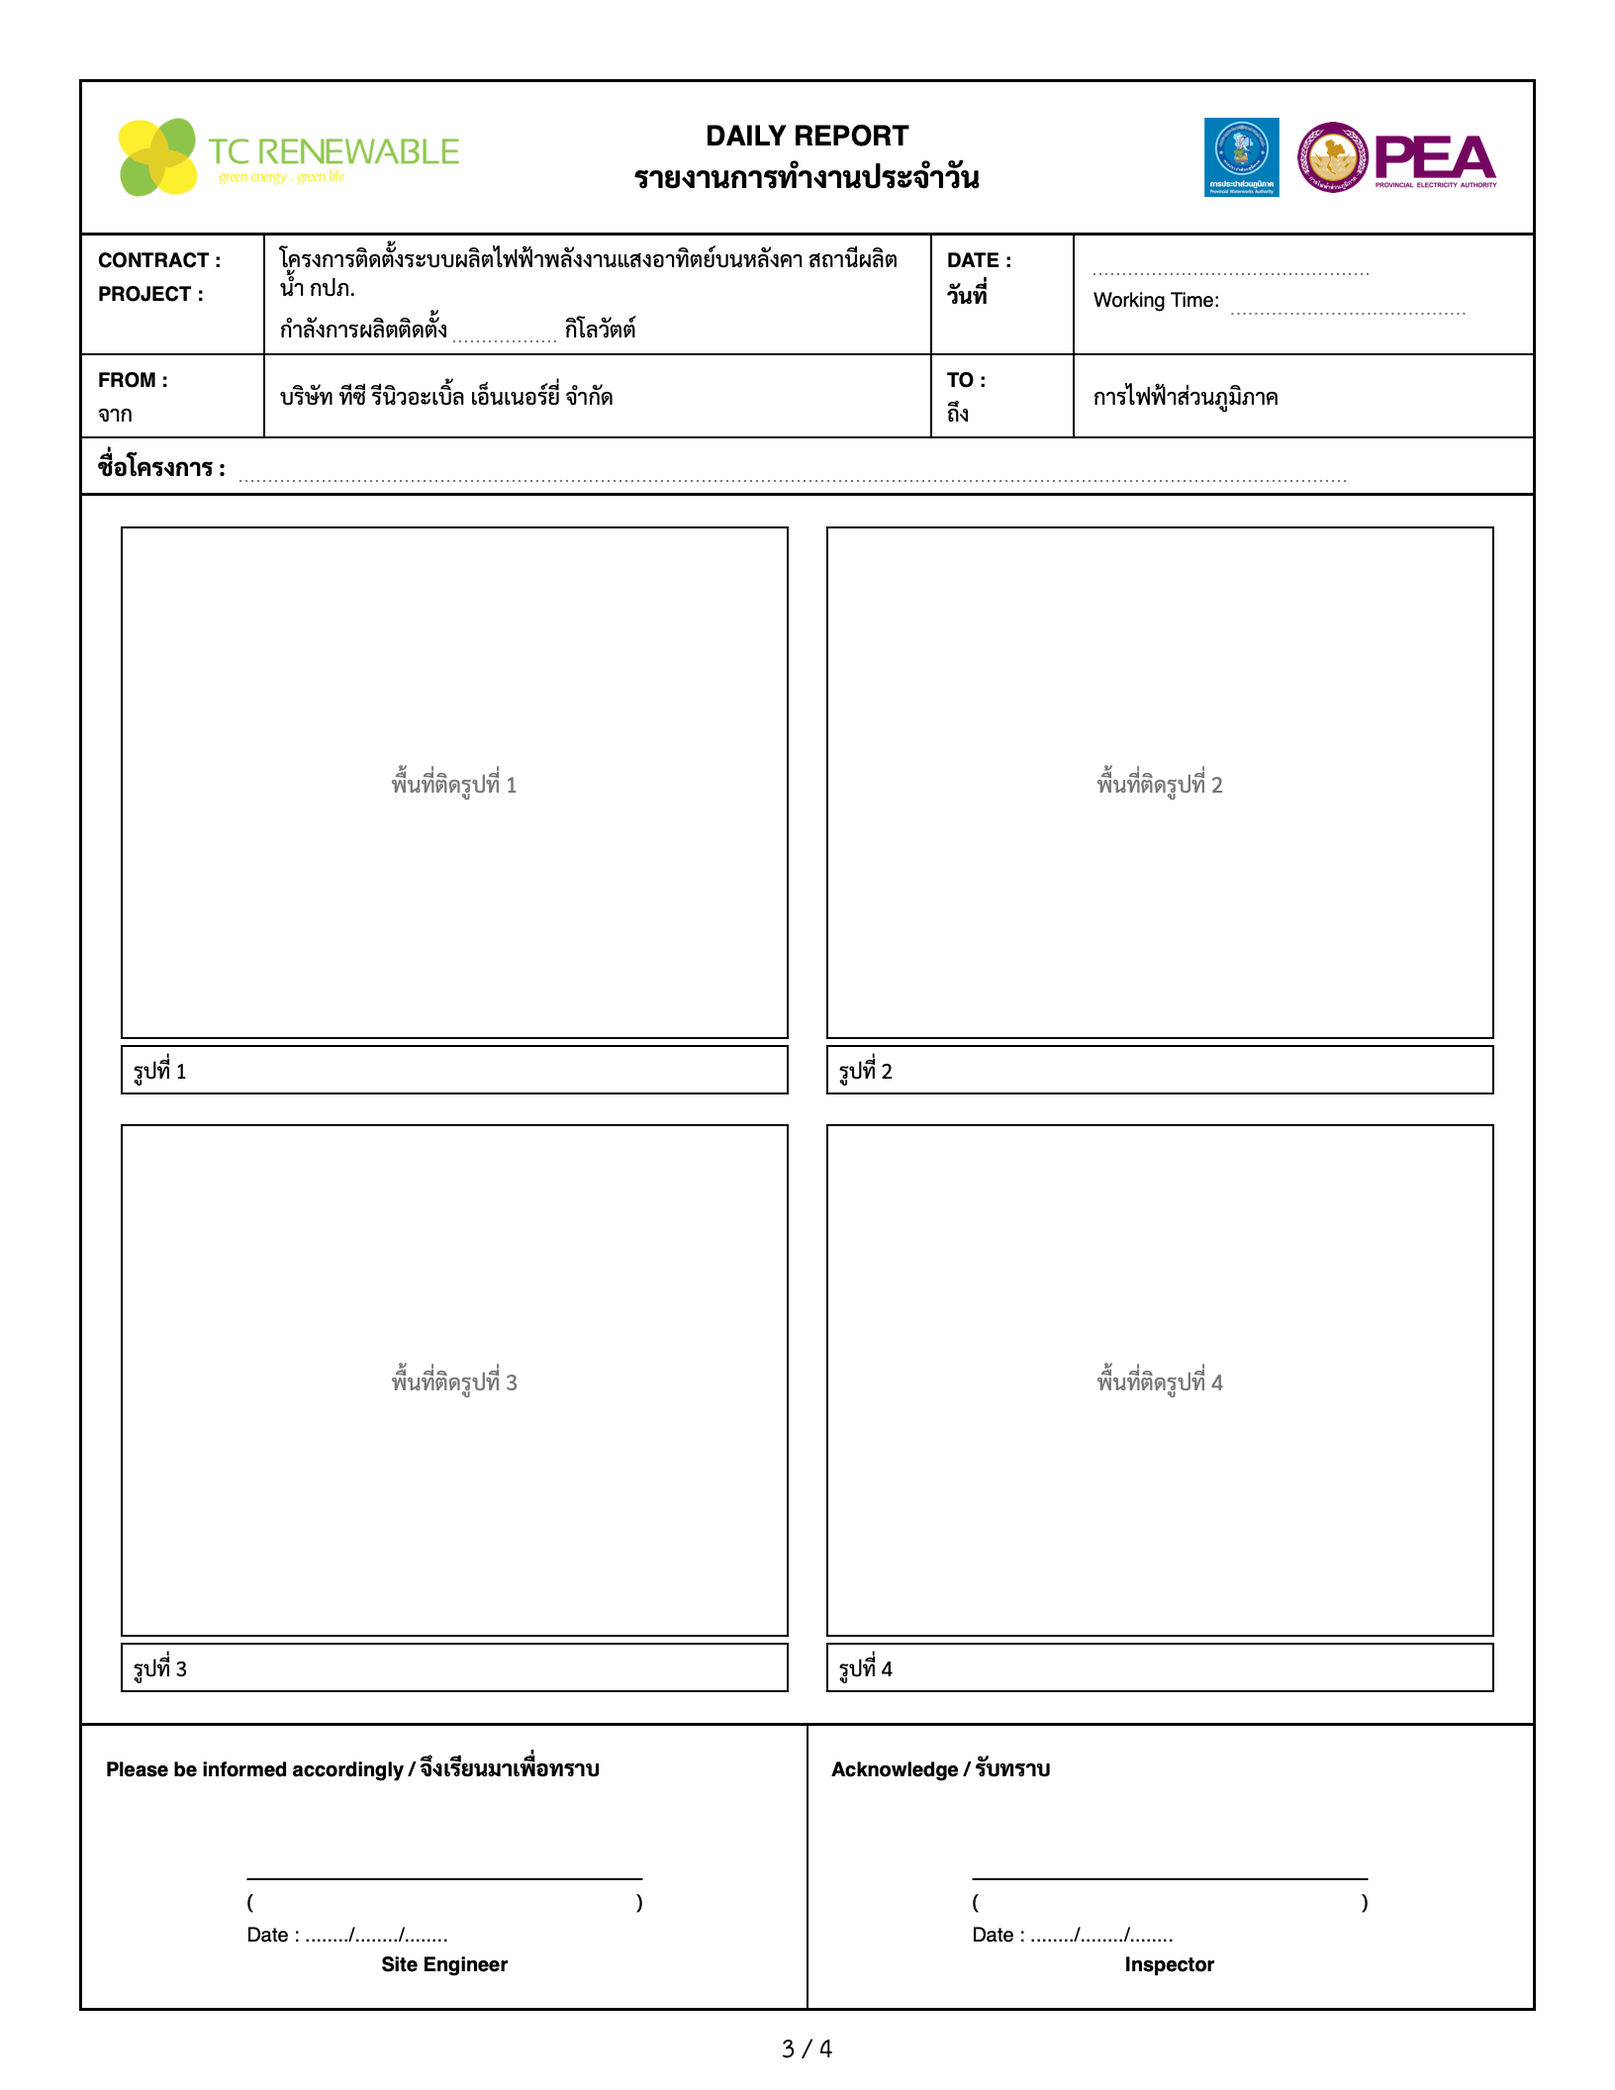
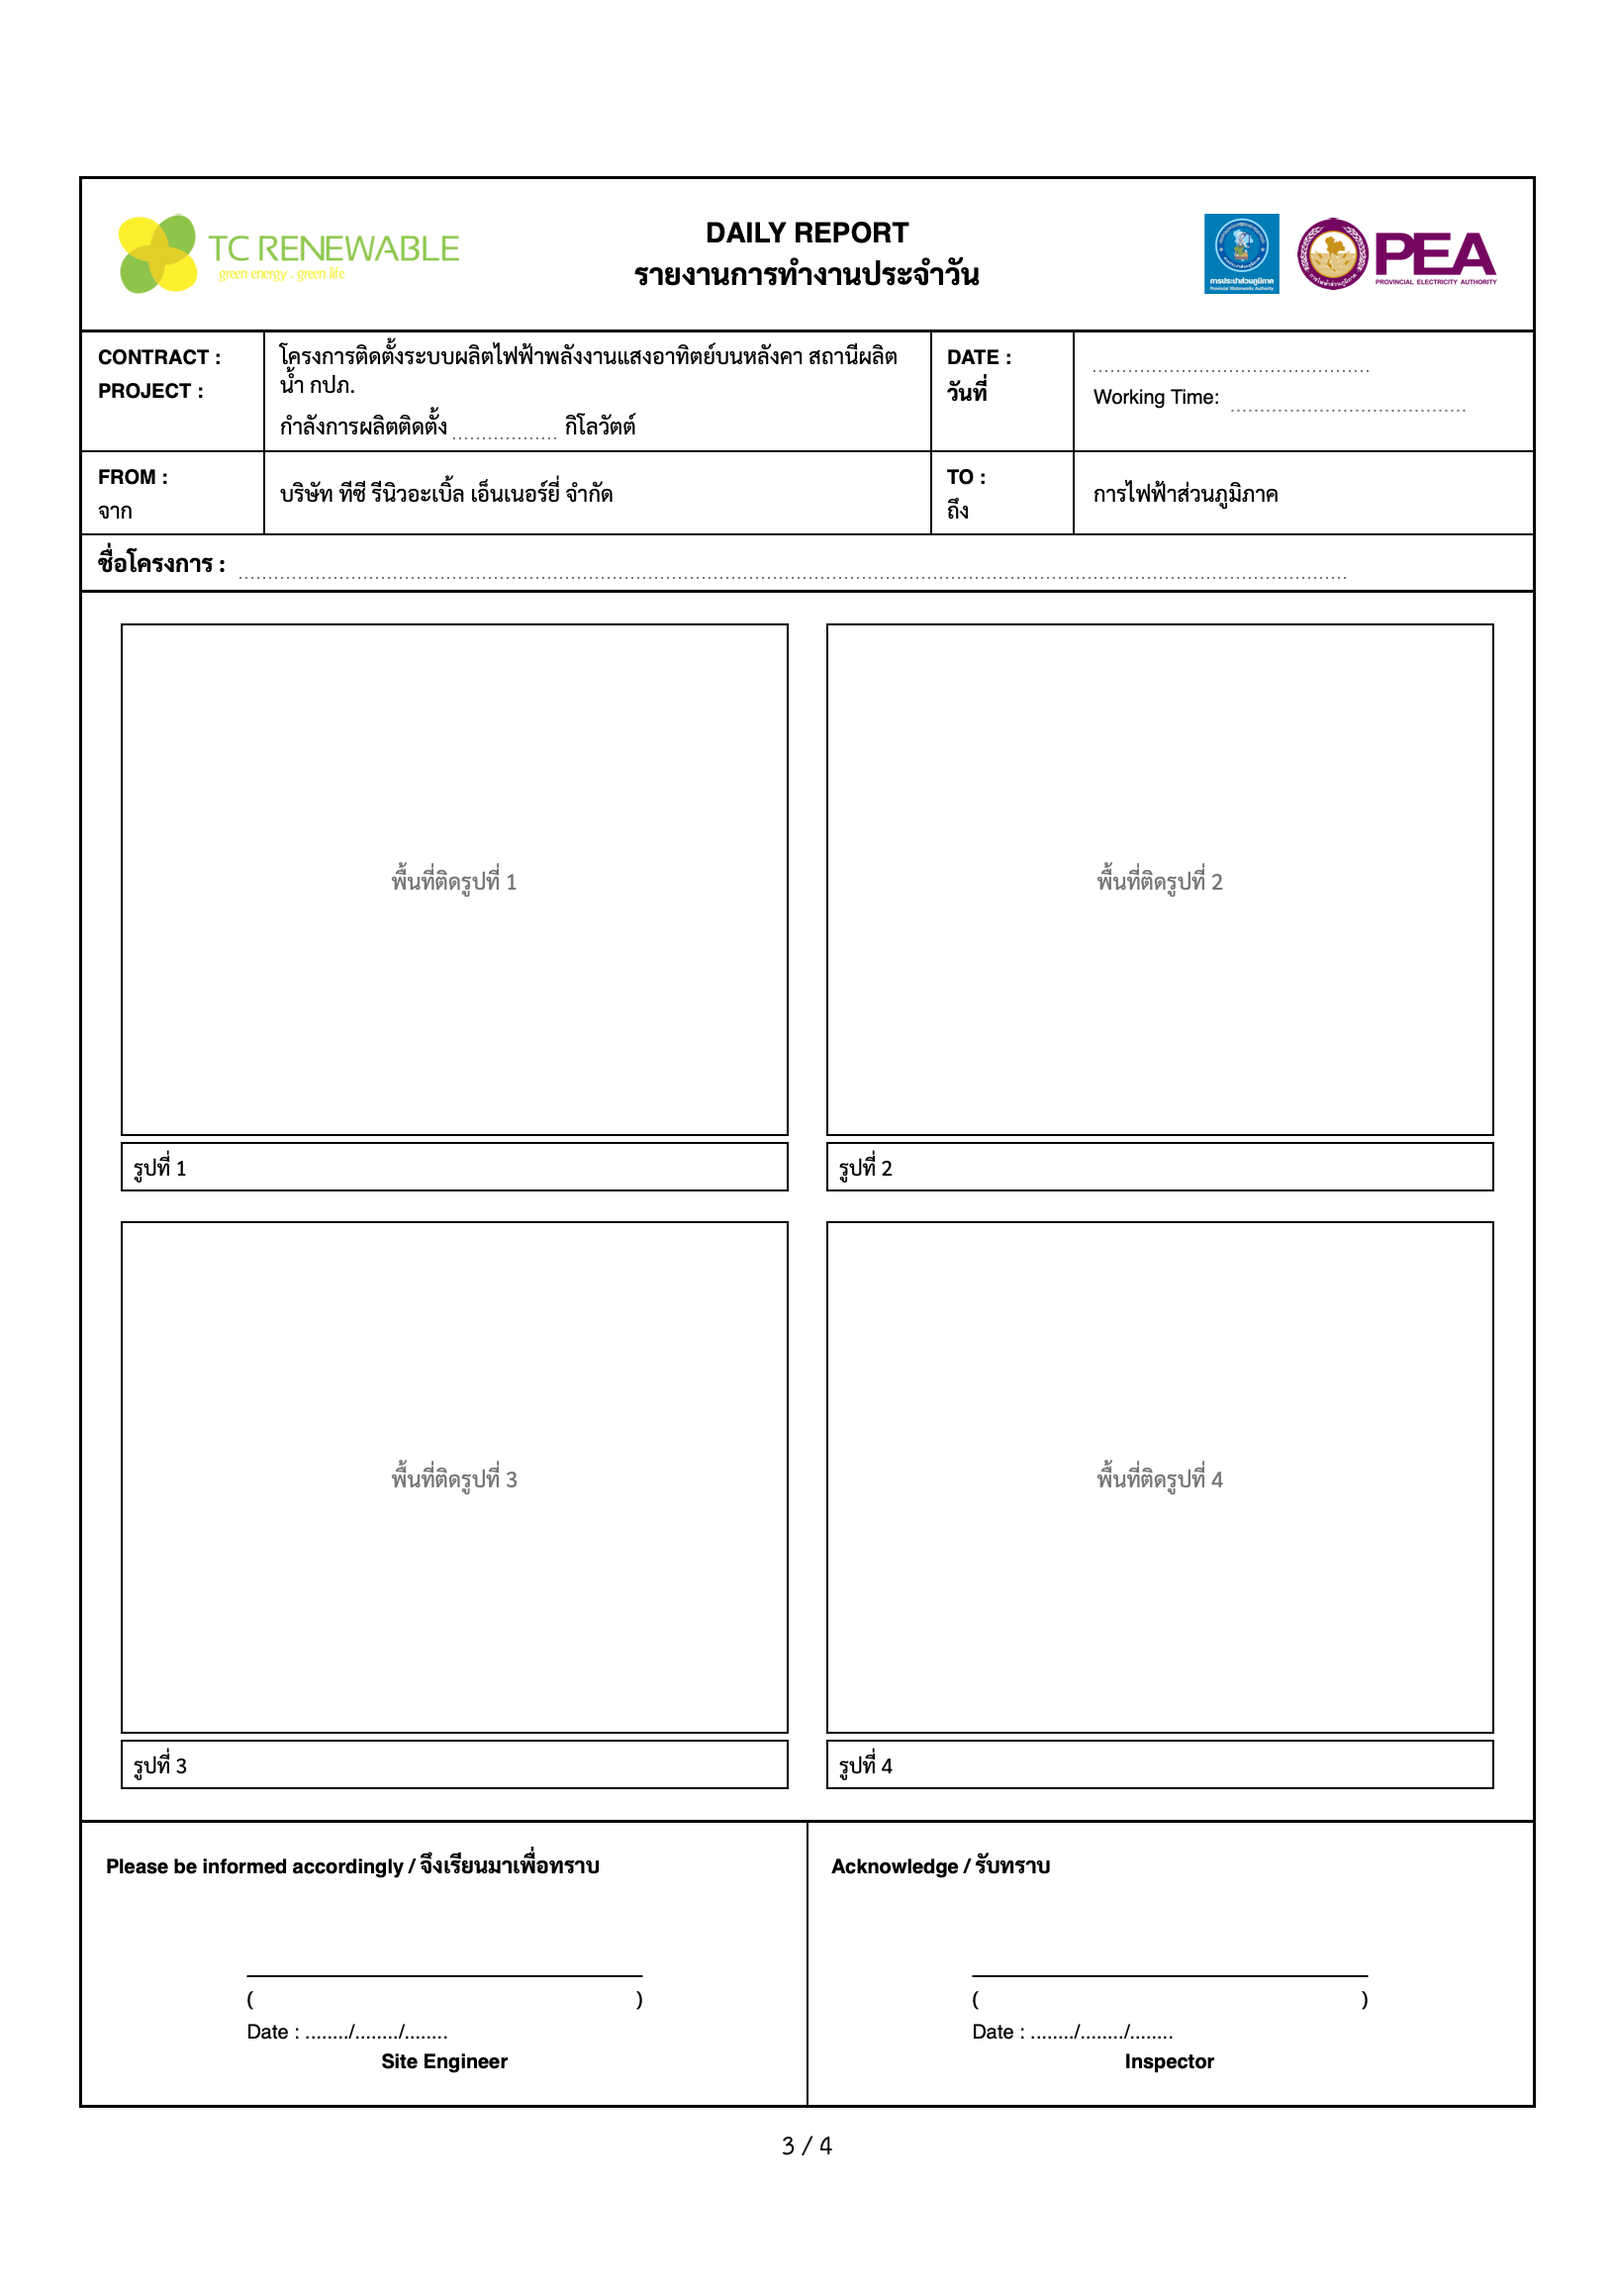
Daily report form on A4
The board is US Letter; the form now prints on A4 like our other reports, the board's page scaled to the width
and centred down the page. Screenshots redone.

Claude-Session: https://claude.ai/code/session_014mHzBfCdeHhoUmB9o3k8RB

diff --git a/TCRoofKit/Sources/PDFReport/RoutineReportPages+DailyForm.swift b/TCRoofKit/Sources/PDFReport/RoutineReportPages+DailyForm.swift
@@ -35,9 +35,9 @@ public enum FormImage: String, CaseIterable, Sendable {
 /// materials; page 2 key plan, progress and problems; page 3 four photos and the signatures; then six photos per page.
 /// Each page is drawn in the board's own pixels (816 × 1056, 96 dpi) and scaled once onto `dailyFormPage`.
 extension RoutineReportPages {
-    /// The form's paper: US Letter, as the board (open question 1 of the task). The board page scales to its width and
-    /// centres vertically, so A4 (595.28 × 841.89) fits too.
-    public static let dailyFormPage = (w: 612.0, h: 792.0)
+    /// The form's paper: A4, as our other reports (the board is US Letter). The board's page scales to the width and
+    /// centres down the page.
+    public static let dailyFormPage = (w: ReportLayout.pageW, h: ReportLayout.pageH)
 
     // the board's page, frame and body, in px
     static let boardW = 816.0, boardH = 1056.0

diff --git a/CLAUDE.md b/CLAUDE.md
@@ -106,7 +106,7 @@ xcrun simctl launch <udid> com.tcroof.internal -screen pwa -surveyDemo YES -surv
 - `-screen job -jobKind home|pwa` opens the first job's detail as a งานบ้าน or งาน PWA job (`JobKind`): a PWA job shows the MP plan, รายงานประจำ, เอกสารสถานี กปภ. and the NO.224 card, a home job shows งานบ้าน ครบวงจร. It changes that job's kind for good.
 - `-screen job -mpDemo plan|setup|new` opens the first job's detail with a sample MP plan around today (`MPScheduleCard`), also opening ตั้งค่าแผน (`setup`), or opens it on the job with its plan cleared (`new`).
 - `-screen mp` opens that job's แผนงาน MP full screen (`MPScheduleScreen`), seeding the same plan when it has none; add `-mpDemo progress` to open บันทึกความก้าวหน้า, or `-mpDemo pdf` to write the weekly-meeting page to `Documents/mp.pdf`. `-mpWorkbook import` takes `Documents/mp-import.xlsx` (copy a station's `Master Plan Weekly` file there first) as the job's plan, and `-mpWorkbook export` writes the kept file with the plan and progress to `Documents/mp-export.xlsx` (`MPWorkbook`: only changed input cells are replaced; an unchanged plan gives back the same bytes).
-- `-screen routine|daily|dailies|request|weekly|monthly` seeds the first installing job with station settings, an MP plan and two weeks of signed daily reports (one day missing, today empty), then opens the รายงานประจำ card, today's daily report (`-routineDay yyyy-MM-dd` for another day; `-routineDemo sign|ack` opens its sheets, `-routineDemo pdf` writes the latest daily report, in the customer's DAILY REPORT form (`RoutineReportPages.dailyForm`, `docs/ui/daily-report-pdf`: Letter, `dailyFormPage`), to `Documents/daily.pdf` and this month's R4 to `monthly.pdf`, `-routineDemo blank` the blank form (`dailyBlankForm`, the daily list's `พิมพ์แบบฟอร์มเปล่า`) to `Documents/daily-blank.pdf`; `-routineKeyPlan YES` stands a drawn picture in for the A2 site picture; `-jobTeam a@x,b@y|none` names the job's team members and clears its supervisor, for good), the daily report list, next week's request, last week's R3 or this month's R4 (`docs/specs/routine-reports-swift.md`).
+- `-screen routine|daily|dailies|request|weekly|monthly` seeds the first installing job with station settings, an MP plan and two weeks of signed daily reports (one day missing, today empty), then opens the รายงานประจำ card, today's daily report (`-routineDay yyyy-MM-dd` for another day; `-routineDemo sign|ack` opens its sheets, `-routineDemo pdf` writes the latest daily report, in the customer's DAILY REPORT form (`RoutineReportPages.dailyForm`, `docs/ui/daily-report-pdf`: A4, `dailyFormPage`), to `Documents/daily.pdf` and this month's R4 to `monthly.pdf`, `-routineDemo blank` the blank form (`dailyBlankForm`, the daily list's `พิมพ์แบบฟอร์มเปล่า`) to `Documents/daily-blank.pdf`; `-routineKeyPlan YES` stands a drawn picture in for the A2 site picture; `-jobTeam a@x,b@y|none` names the job's team members and clears its supervisor, for good), the daily report list, next week's request, last week's R3 or this month's R4 (`docs/specs/routine-reports-swift.md`).
 - `-routineDaily onepage` (with `-screen daily`) forces the iPad one-page daily report (`DailyOnePage`, `docs/ui/daily-report-ipad`; it is the layout on any iPad width ≥ 1000) and, on a day with no saved report, fills the board's three lines with drawn photos (nothing saved); `-routineDailyState task2|tools|map|material|daybefore` opens states 02, 03, 06, 08 and 07 (`signed` is the sign sheet: `-routineDemo sign`; the count dropdown is a system menu and can't be opened by a flag). Weather and the working time are in the sheet of the right column's `เวลาทำงาน` chip.
 - `-screen stationdocs` opens เอกสารสถานี กปภ. (`StationDocsScreen`) for the first installing job: the station's papers by submission and the พค.2 check list (`TCRoofCore/StationDocs`). Add `-stationDocsDraft outage` to open ร่างหนังสือแจ้งดับไฟ (`OutageLetterSheet`, the first paper the app drafts: `StationDocs+Drafts`), or `-stationDocsDraft pdf` to write that letter with example answers to `Documents/outage.pdf`. `-stationDocsERC wait|failed|ready|parallel|done` sets the station to 200 kVA and over, writes that state of the ERC exemption flow (`TCRoofCore/ERCFlow`, `docs/specs/erc-exemption-flow-swift.md`) dated back from today and opens the `ลำดับ กกพ.` tab; it changes the job for good.
 - `-screen mpall` opens แผน MP ทุกสถานี (`MPOverviewView`, also from the Plan tab's header), seeding plans on the first four jobs that have none, which also sets them to งาน PWA. Its `นำเข้ารายชื่อสถานี` reads the PWA tracking workbook (`StationList`, `StationListImportSheet`); `-stationListFile <path>` opens its check without the file picker. Only a job set to งาน PWA is in the PWA module (`Job.kind`); `Job.keepKinds` set the older jobs with PWA data to it once per device.
